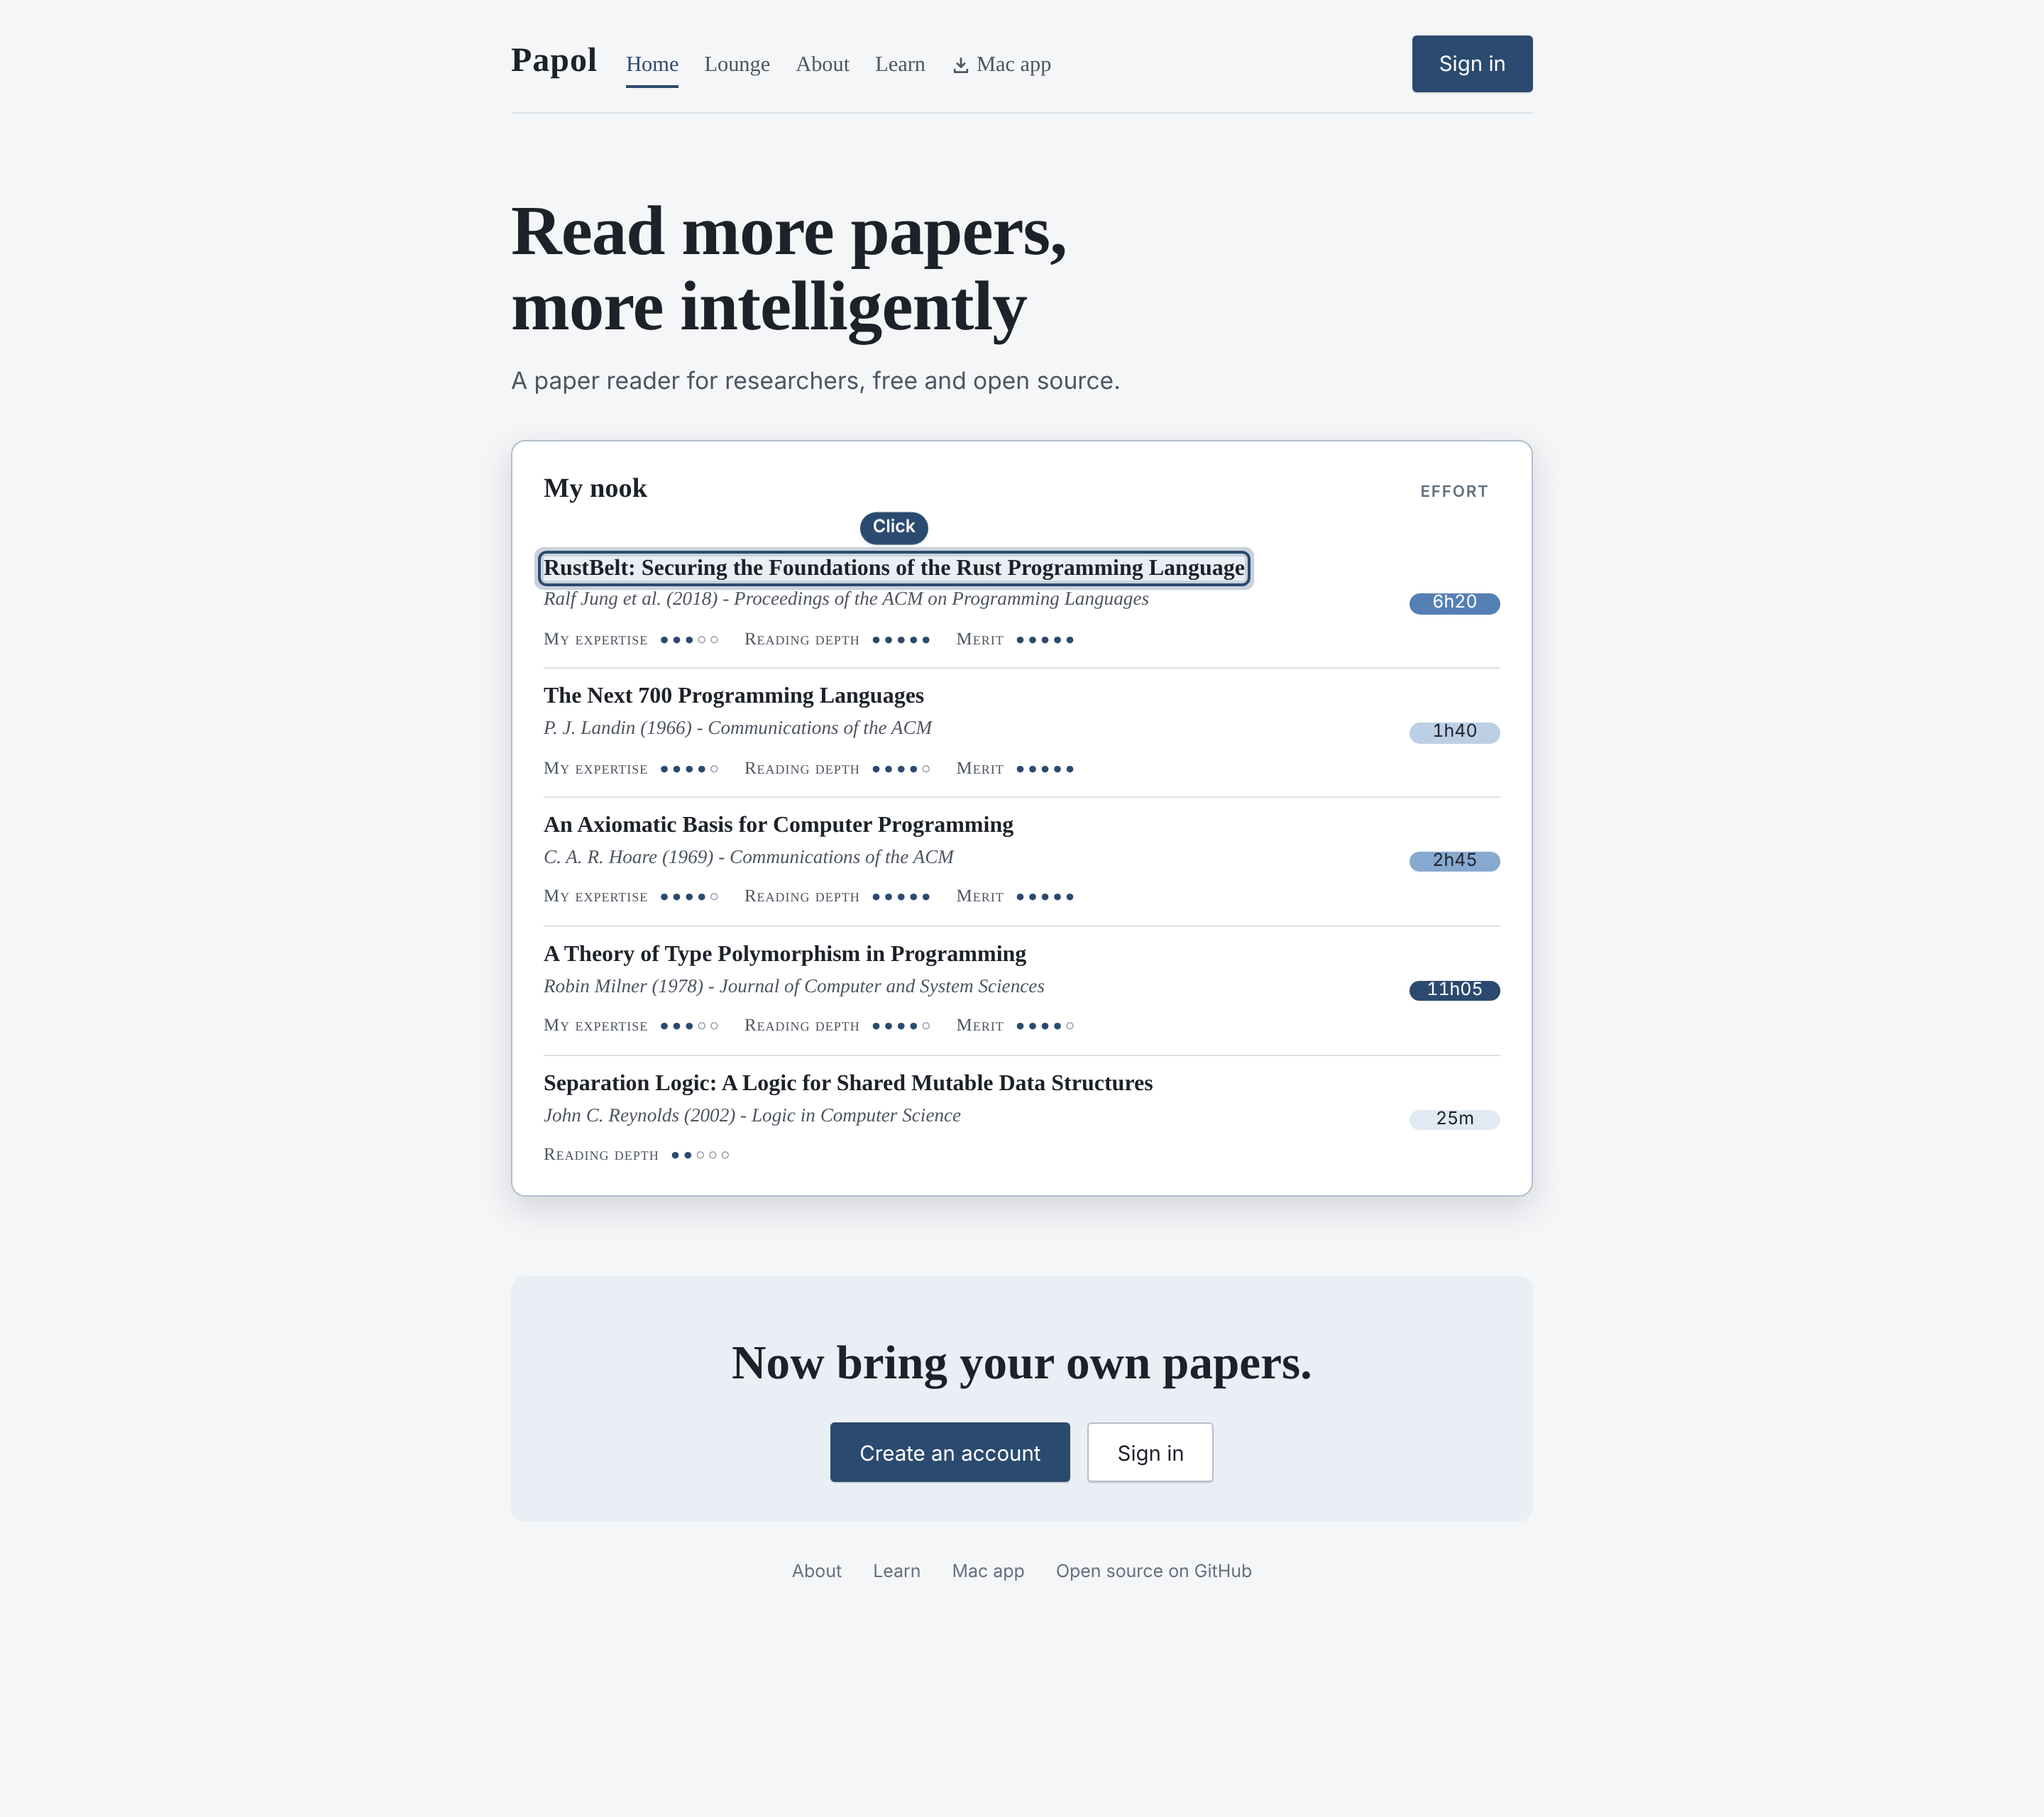
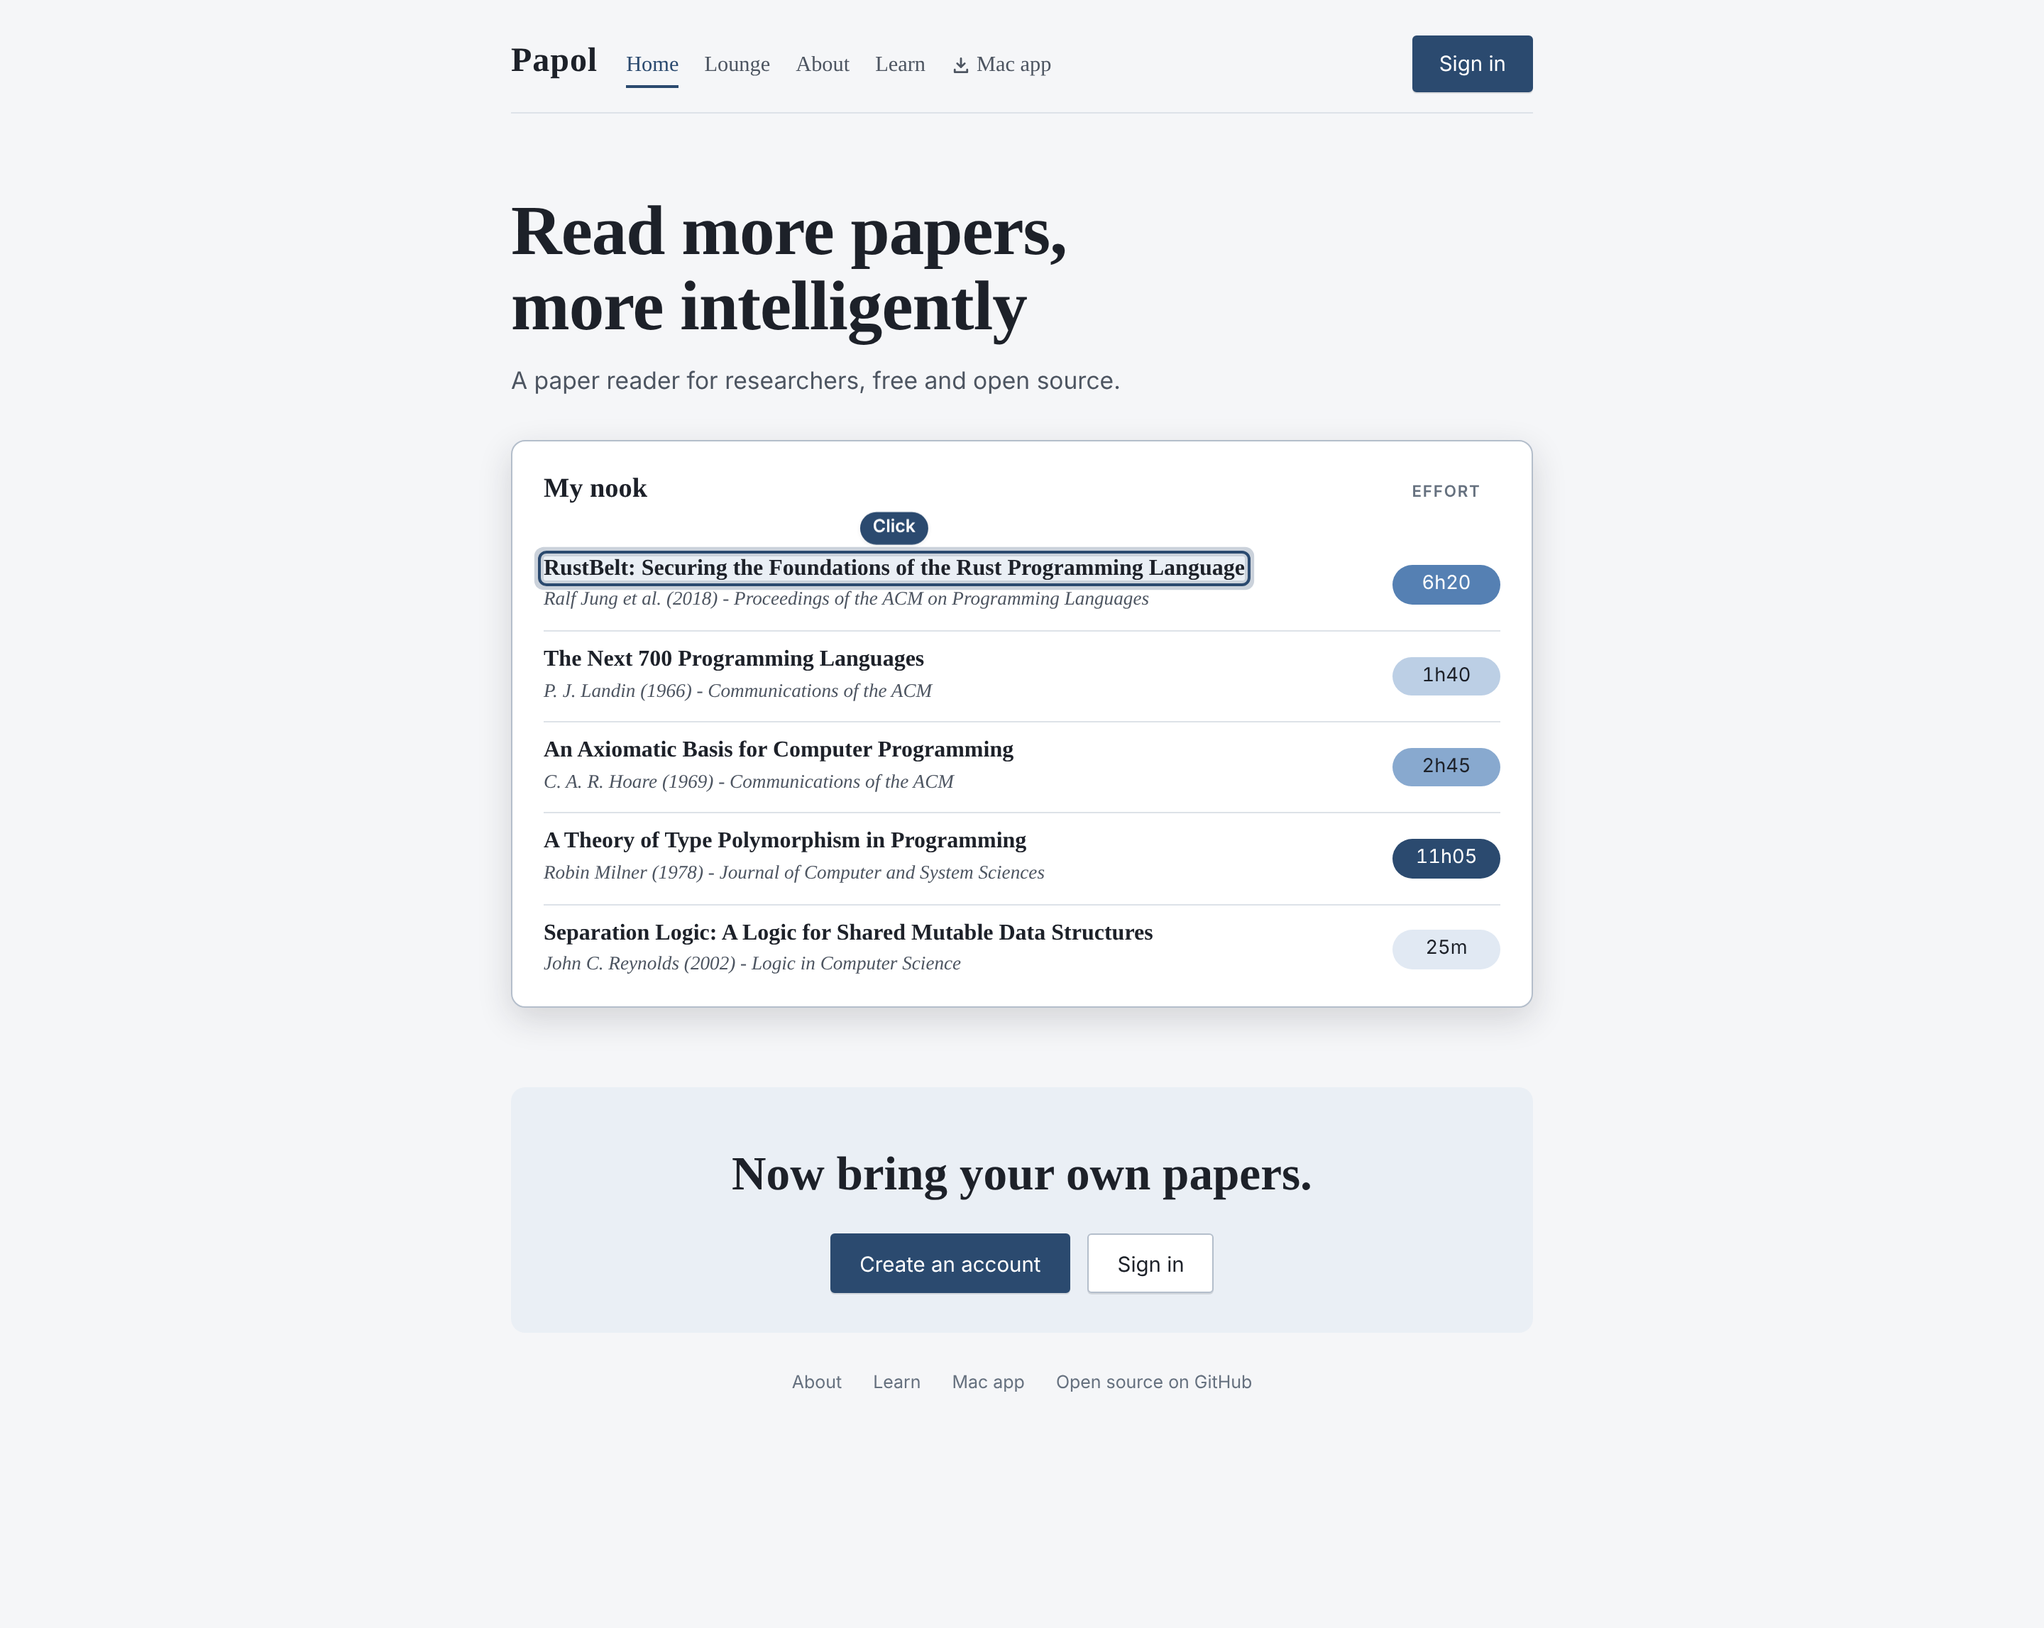
The landing nook's effort chips are larger, and it shows no ratings
Each chip has its time in the middle of it, and the rows are a title
and the line under it.

Claude-Session: https://claude.ai/code/session_01PQZzMUS3tB21Bk48RQwY8X

diff --git a/frontend/src/components/HomeNook.jsx b/frontend/src/components/HomeNook.jsx
@@ -1,37 +1,36 @@
 import React from 'react';
-import { RatingSummary } from './Rating';
 import { effortLevel, formatDurationShort } from '../activityView';
 
 // The landing page's nook: a few papers, listed the way a nook lists them,
 // before the visitor has an account: each with the time its reader has
-// spent on it and how they rated it. Any of them opens the viewer, and the
-// viewer has one paper to show: the first.
+// spent on it. Any of them opens the viewer, and the viewer has one paper
+// to show: the first.
 const HOUR = 3600;
 const PAPERS = [
   {
     title: 'RustBelt: Securing the Foundations of the Rust Programming Language',
     meta: 'Ralf Jung et al. (2018) - Proceedings of the ACM on Programming Languages',
-    seconds: 6 * HOUR + 20 * 60, rating_expertise: 3, rating_reading: 5, rating_liking: 5,
+    seconds: 6 * HOUR + 20 * 60,
   },
   {
     title: 'The Next 700 Programming Languages',
     meta: 'P. J. Landin (1966) - Communications of the ACM',
-    seconds: 1 * HOUR + 40 * 60, rating_expertise: 4, rating_reading: 4, rating_liking: 5,
+    seconds: 1 * HOUR + 40 * 60,
   },
   {
     title: 'An Axiomatic Basis for Computer Programming',
     meta: 'C. A. R. Hoare (1969) - Communications of the ACM',
-    seconds: 2 * HOUR + 45 * 60, rating_expertise: 4, rating_reading: 5, rating_liking: 5,
+    seconds: 2 * HOUR + 45 * 60,
   },
   {
     title: 'A Theory of Type Polymorphism in Programming',
     meta: 'Robin Milner (1978) - Journal of Computer and System Sciences',
-    seconds: 11 * HOUR + 5 * 60, rating_expertise: 3, rating_reading: 4, rating_liking: 4,
+    seconds: 11 * HOUR + 5 * 60,
   },
   {
     title: 'Separation Logic: A Logic for Shared Mutable Data Structures',
     meta: 'John C. Reynolds (2002) - Logic in Computer Science',
-    seconds: 25 * 60, rating_reading: 2,
+    seconds: 25 * 60,
   },
 ];
 
@@ -60,7 +59,6 @@ export default function HomeNook({ onOpen }) {
                   </h4>
                 </div>
                 <p className="paper-meta paper-meta-row"><span>{paper.meta}</span></p>
-                <RatingSummary paper={paper} compact />
               </div>
               <span className={`nook-effort is-compact effort-level-${effortLevel(paper.seconds)} landing-nook-effort`}>
                 {formatDurationShort(paper.seconds)}

diff --git a/shared/applicationStyles.js b/shared/applicationStyles.js
@@ -3838,12 +3838,14 @@ a.button:hover {
 }
 .landing-nook-head { display: flex; align-items: baseline; justify-content: space-between; gap: 12px; margin-bottom: 20px; }
 .landing-nook-name { color: var(--ink); font-size: var(--fs-xl); font-weight: 600; }
-.landing-nook-column { width: 4rem; color: var(--ink-faint); font: 600 var(--fs-2xs) var(--font-ui); letter-spacing: .08em; text-align: center; text-transform: uppercase; }
+.landing-nook-column { width: 4.75rem; color: var(--ink-faint); font: 600 var(--fs-2xs) var(--font-ui); letter-spacing: .08em; text-align: center; text-transform: uppercase; }
 /* No shelf bars here, so a row needs no lane for one. */
 .landing-nook .paper-list li { padding-left: 0; padding-right: 0; cursor: pointer; }
 .landing-nook li:hover .paper-title-link { color: var(--accent); }
 .landing-nook .paper-title-link.beckon { border-radius: 2px; }
-.landing-nook-effort { flex: none; justify-content: center; min-width: 4rem; cursor: inherit; }
+/* The chip is the column here, so it is larger than on a nook's line, with
+   its time in the middle of it. */
+.landing-nook-effort.nook-effort { flex: none; justify-content: center; min-width: 4.75rem; padding: 7px 12px; font-size: var(--fs-sm); line-height: 1; text-align: center; cursor: inherit; }
 .landing-nook-effort:hover { box-shadow: none; }
 
 /* The specimen: a viewer window around one page of the paper. */
